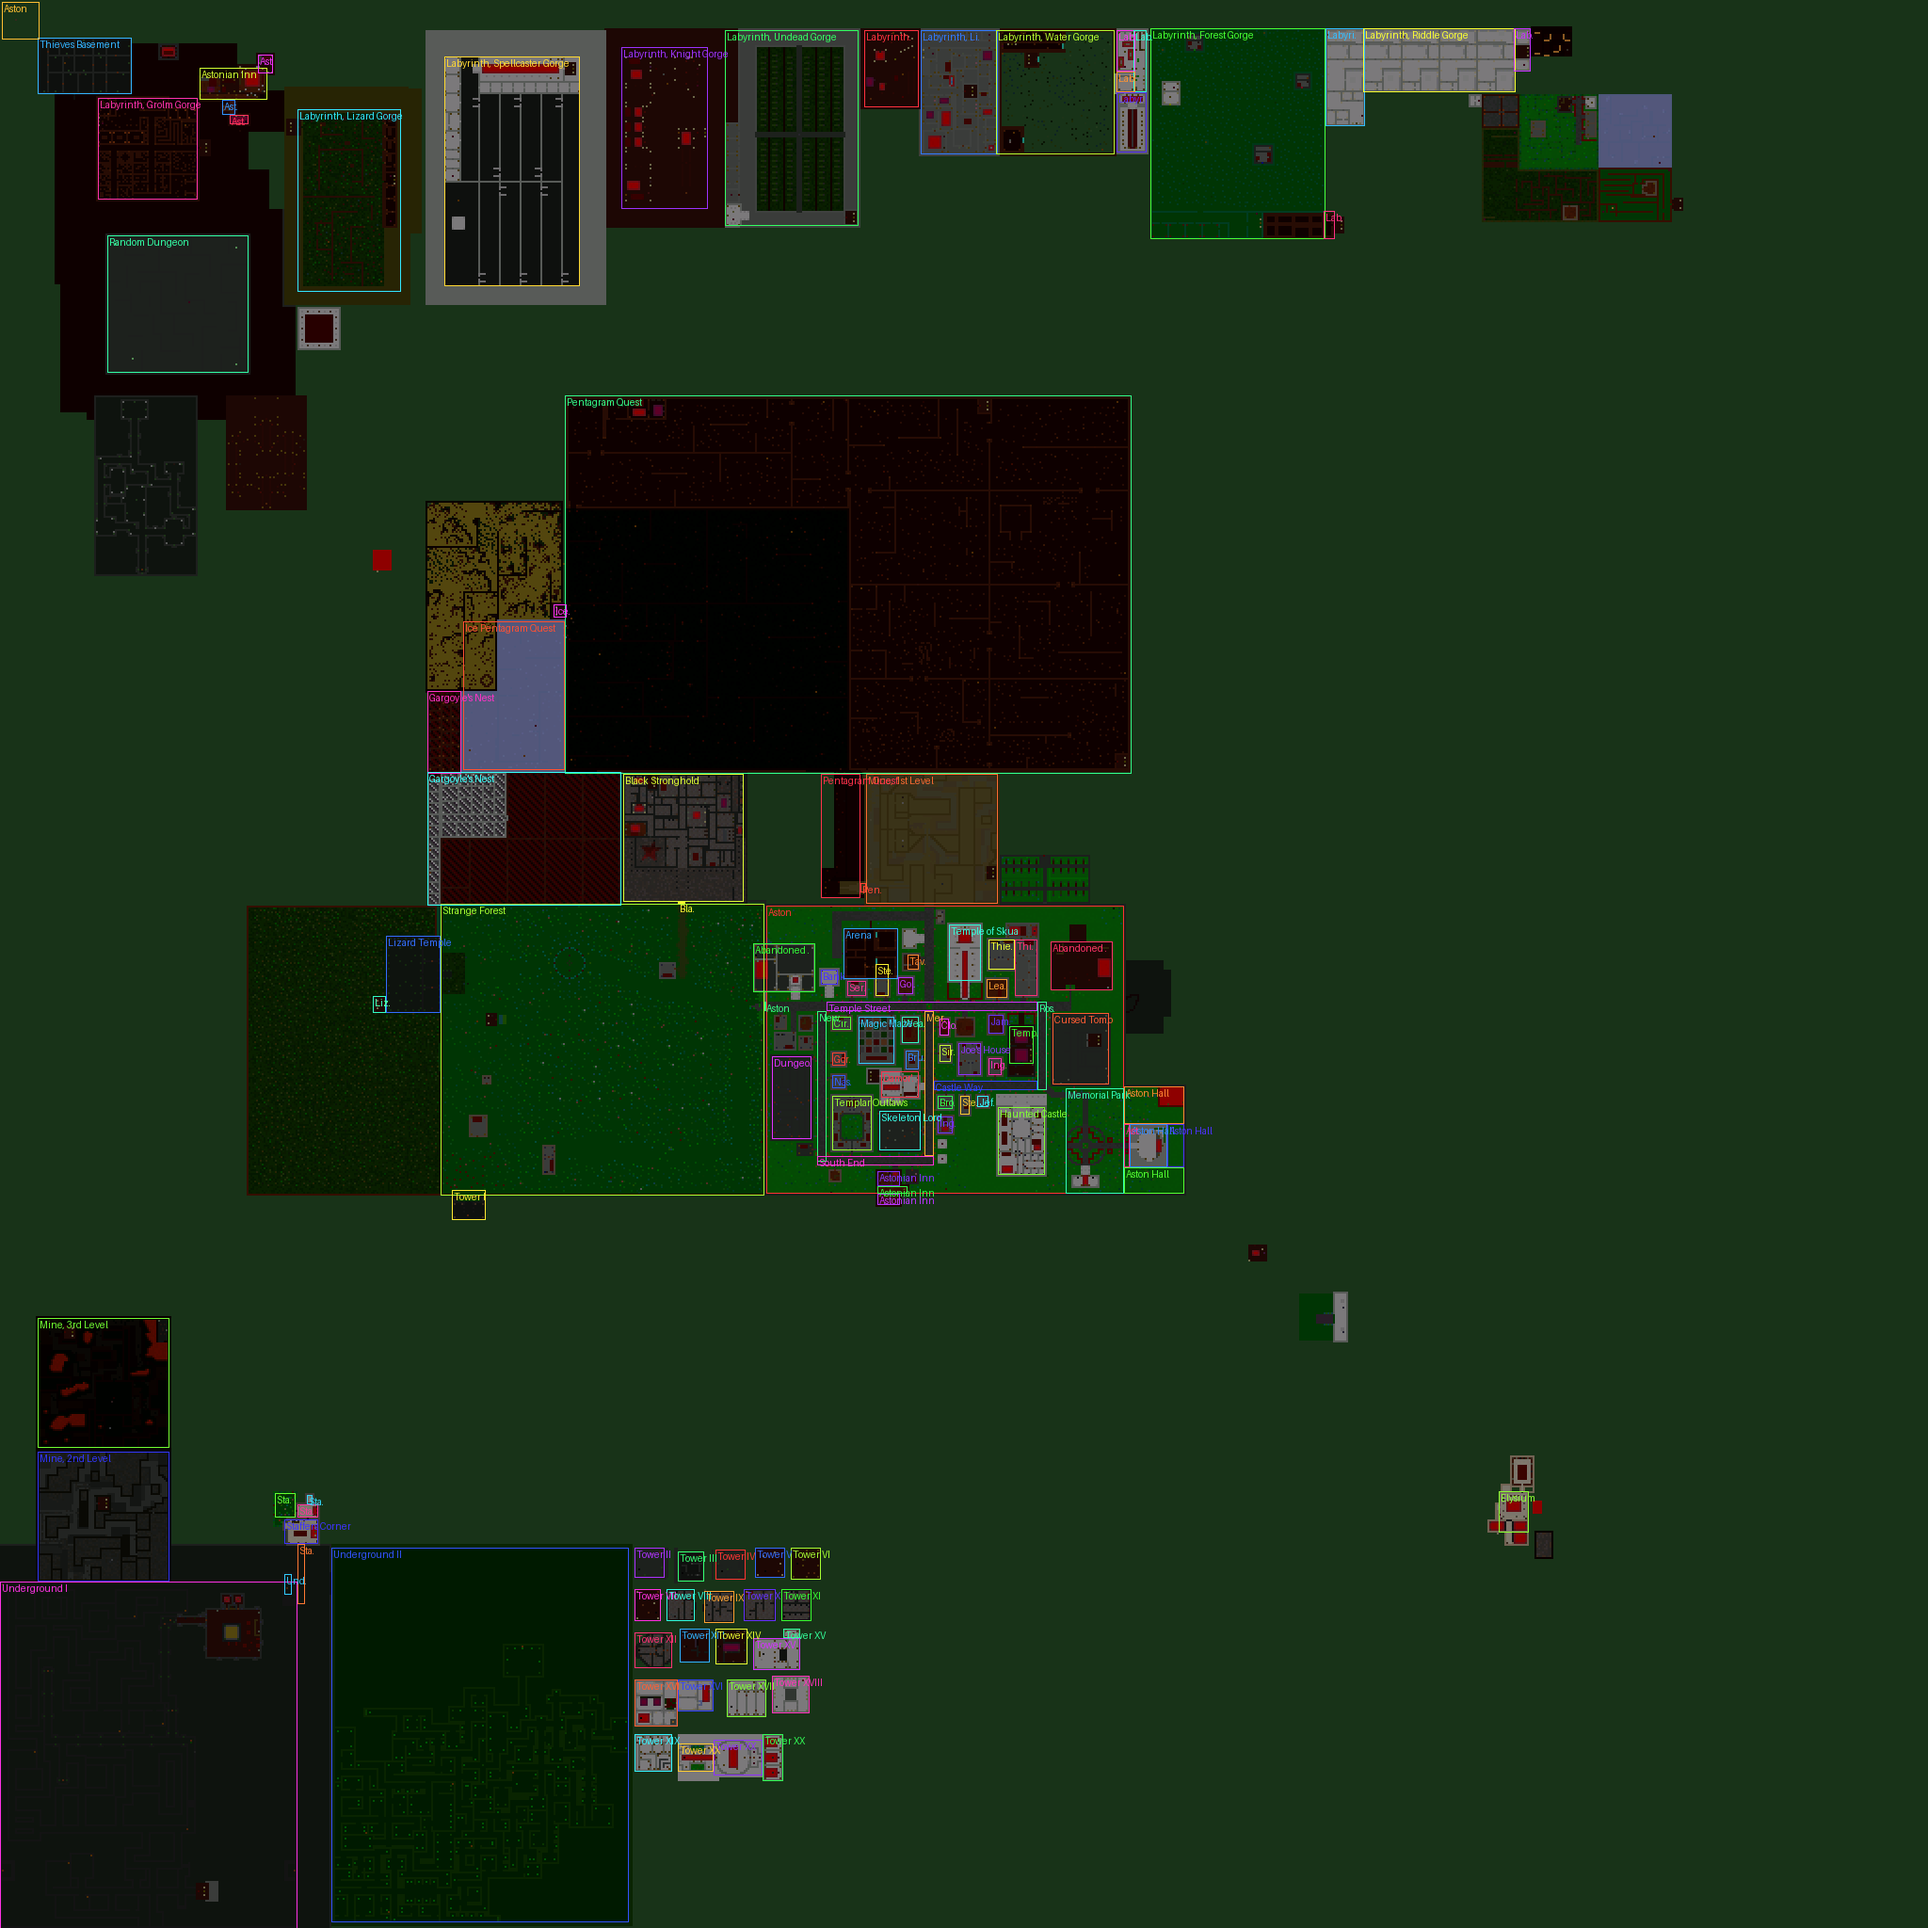
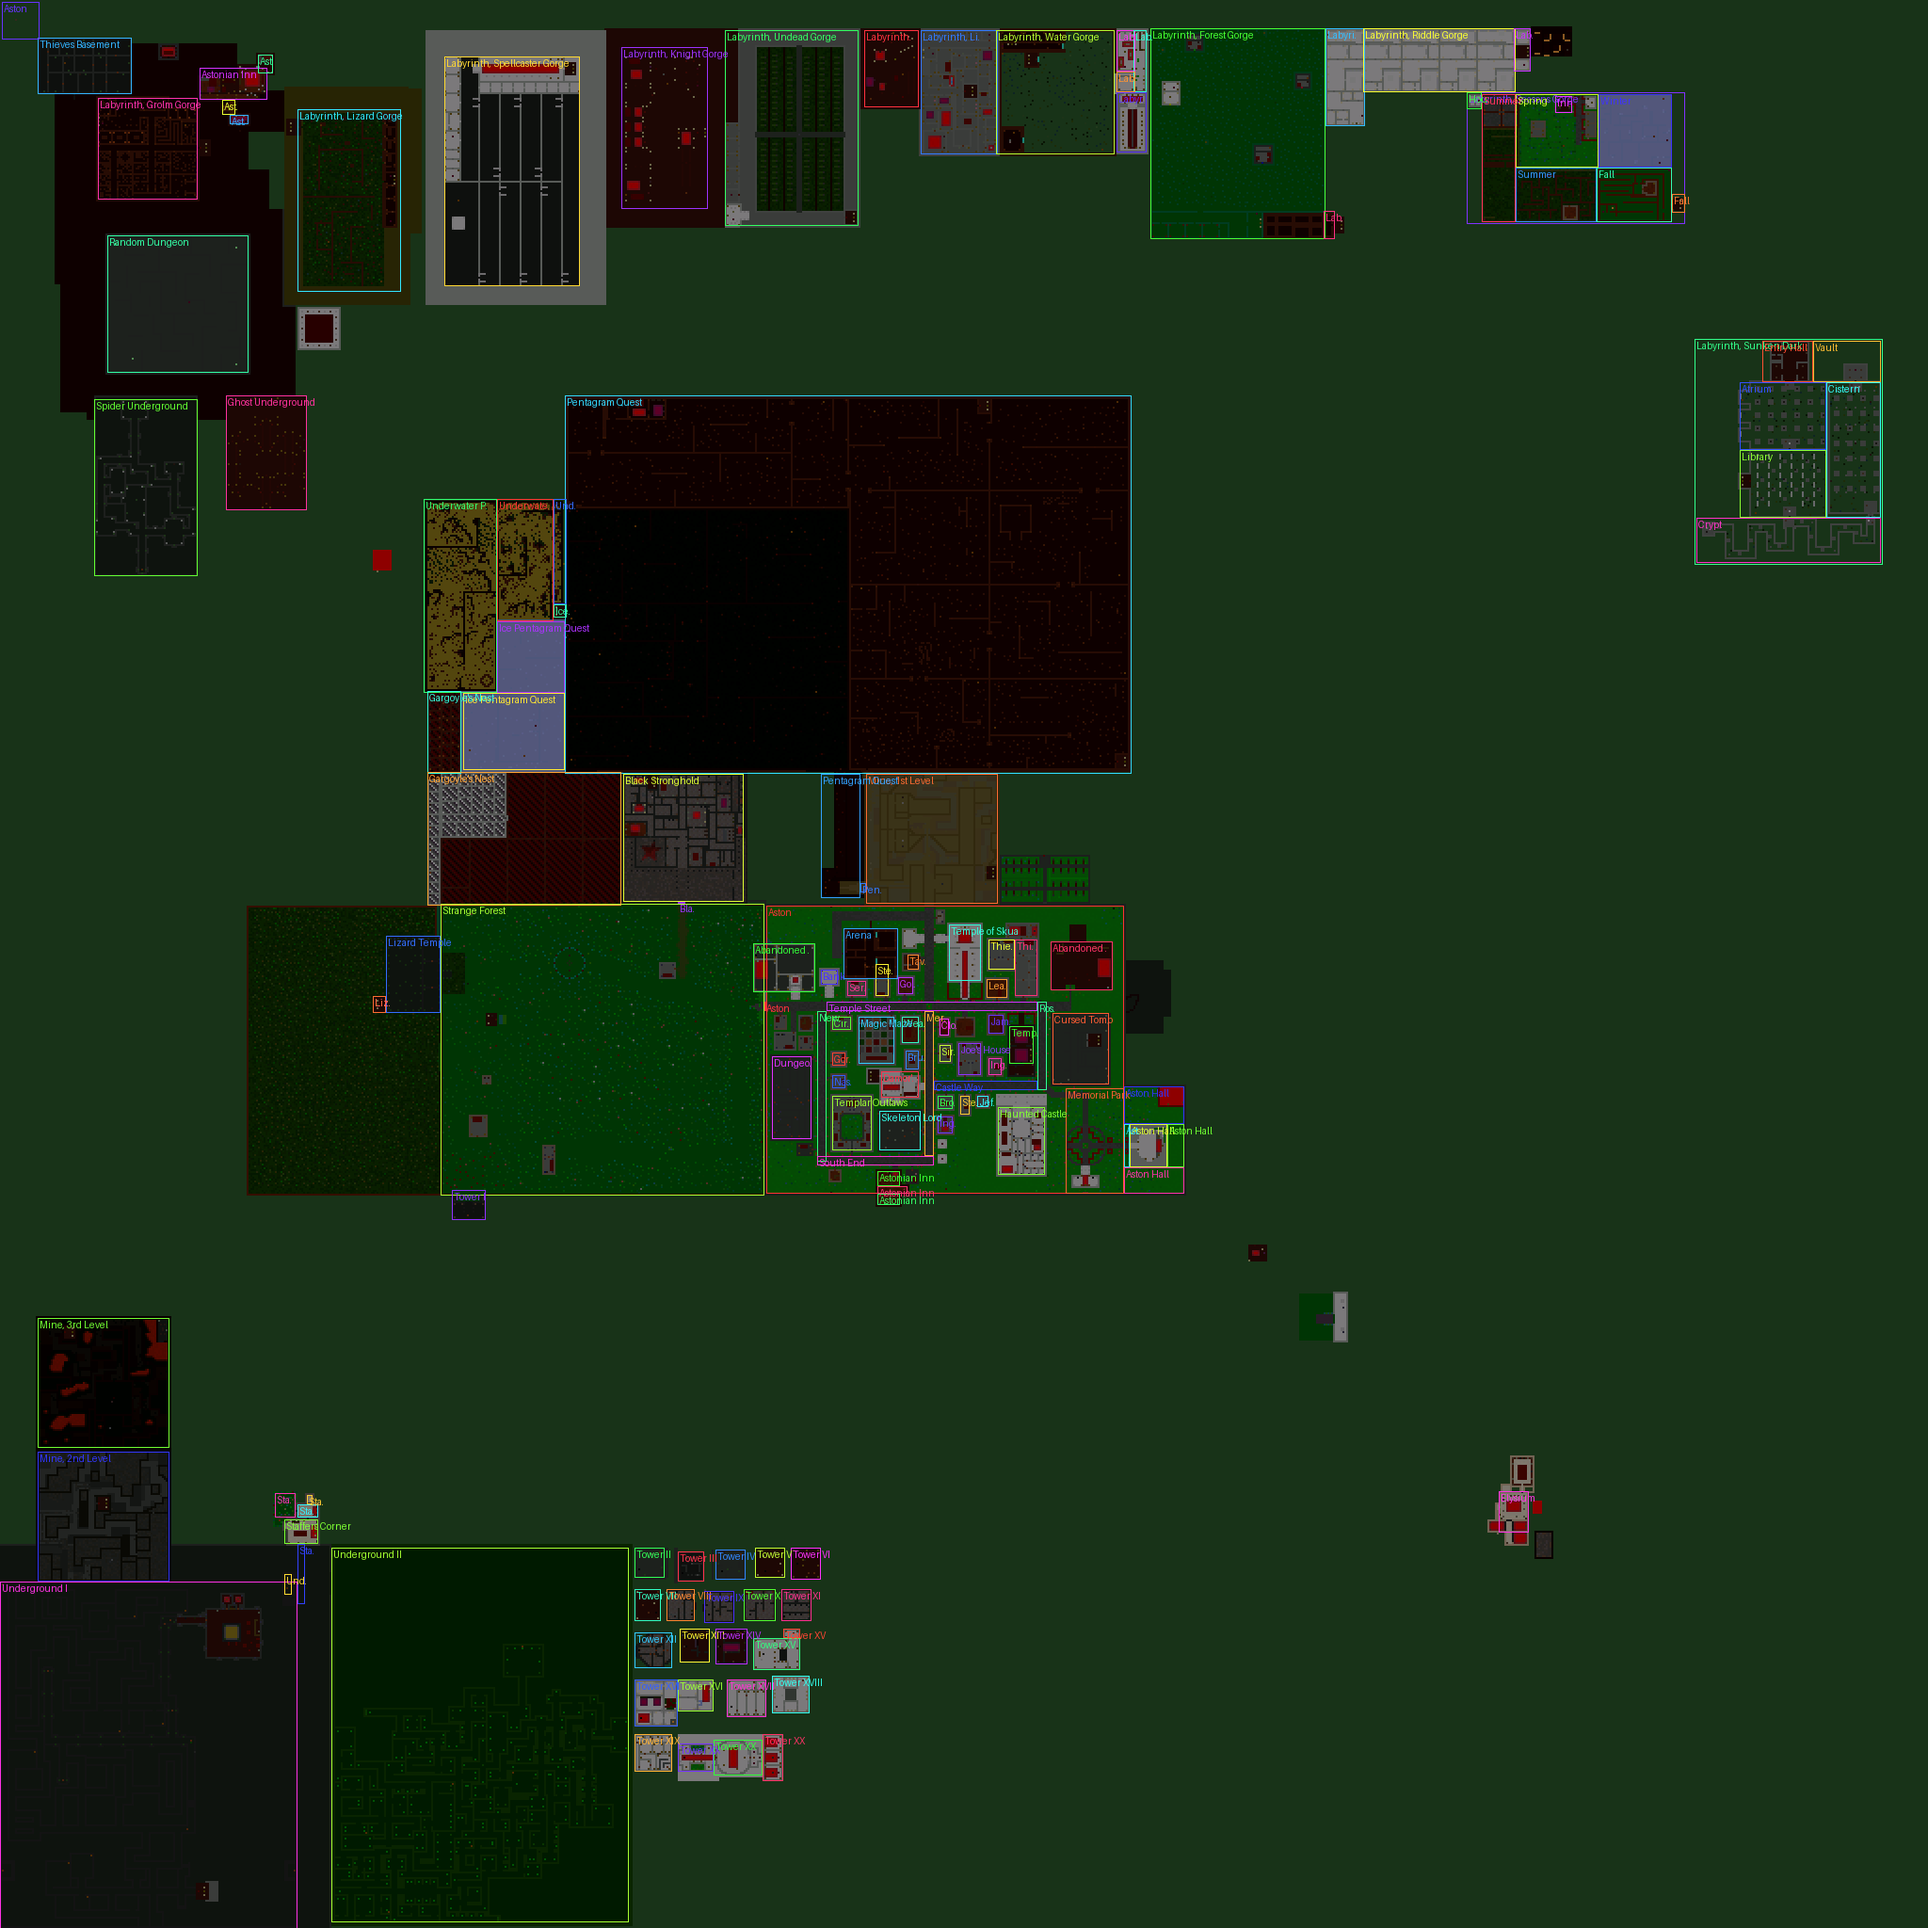
docs: world minimap and zone map redrawn (Lab 10/11 parts, undergrounds, pentagram quests)
Claude-Session: https://claude.ai/code/session_01MSjWpMgByR7PswdtguveBk

diff --git a/docs/world_zones.md b/docs/world_zones.md
@@ -74,60 +74,82 @@ Shown by `/who`, by NPCs when asked where you are, and in server logs. A spot in
 | 64 | Labyrinth, Riddle Gorge | 15,704 | 66,724 | "in the Labyrinth, Riddle Gorge" |
 | 65 | Labyrinth, Riddle Gorge | 15,724 | 48,804 | "in the Labyrinth, Riddle Gorge" |
 | 66 | Labyrinth, Riddle Gorge | 15,804 | 37,812 | "in the Labyrinth, Riddle Gorge" |
-| 67 | Pentagram Quest | 210,300 | 410,600 | "in the Pentagram Quest" |
-| 68 | Ice Pentagram Quest | 330,246 | 408,299 | "in the Ice Pentagram Quest" |
-| 69 | Underground II | 822,176 | 1020,333 | "in the Underground II" |
-| 70 | Elysium | 792,796 | 813,811 | "in the Elysium" |
-| 71 | Gargoyle's Nest | 367,227 | 410,244 | "in the Gargoyle's Nest" |
-| 72 | Gargoyle's Nest | 410,227 | 480,329 | "in the Gargoyle's Nest" |
-| 73 | Aston | 1,1 | 20,20 | "in Aston" |
-| 74 | Astonian Inn | 622,466 | 629,477 | "in the Astonian Inn" |
-| 75 | Astonian Inn | 630,466 | 633,481 | "in the Astonian Inn" |
-| 76 | Astonian Inn | 61,122 | 65,131 | "in the Astonian Inn" |
-| 77 | Astonian Inn | 53,118 | 60,124 | "in the Astonian Inn" |
-| 78 | Astonian Inn | 36,106 | 52,141 | "in the Astonian Inn" |
-| 79 | Astonian Inn | 29,137 | 38,144 | "in the Astonian Inn" |
-| 80 | Memorial Park | 578,566 | 633,596 | "in the Memorial Park" |
-| 81 | Staffers Corner | 820,158 | 851,161 | "in the Staffers Corner" |
-| 82 | Staffers Corner | 807,151 | 819,168 | "in the Staffers Corner" |
-| 83 | Staffers Corner | 793,146 | 805,156 | "in the Staffers Corner" |
-| 84 | Staffers Corner | 799,158 | 805,168 | "in the Staffers Corner" |
-| 85 | Staffers Corner | 794,163 | 798,165 | "in the Staffers Corner" |
-| 86 | Tower I | 632,240 | 647,257 | "in the Tower I" |
-| 87 | Tower II | 822,337 | 837,352 | "in the Tower II" |
-| 88 | Tower III | 824,360 | 839,373 | "in the Tower III" |
-| 89 | Tower IV | 823,380 | 838,395 | "in the Tower IV" |
-| 90 | Tower V | 822,401 | 837,416 | "in the Tower V" |
-| 91 | Tower VI | 822,420 | 838,435 | "in the Tower VI" |
-| 92 | Tower VII | 844,337 | 860,350 | "in the Tower VII" |
-| 93 | Tower VIII | 844,354 | 860,368 | "in the Tower VIII" |
-| 94 | Tower IX | 845,374 | 861,389 | "in the Tower IX" |
-| 95 | Tower X | 844,395 | 860,411 | "in the Tower X" |
-| 96 | Tower XI | 844,415 | 860,430 | "in the Tower XI" |
-| 97 | Tower XII | 867,337 | 885,356 | "in the Tower XII" |
-| 98 | Tower XIII | 865,361 | 882,376 | "in the Tower XIII" |
-| 99 | Tower XIV | 865,380 | 883,396 | "in the Tower XIV" |
-| 100 | Tower XV | 870,400 | 886,424 | "in the Tower XV" |
-| 101 | Tower XV | 865,416 | 869,424 | "in the Tower XV" |
-| 102 | Tower XVI | 892,337 | 916,359 | "in the Tower XVI" |
-| 103 | Tower XVI | 892,360 | 908,378 | "in the Tower XVI" |
-| 104 | Tower XVII | 892,386 | 911,406 | "in the Tower XVII" |
-| 105 | Tower XVIII | 890,410 | 909,429 | "in the Tower XVIII" |
-| 106 | Tower XIX | 921,337 | 940,356 | "in the Tower XIX" |
-| 107 | Tower XX | 926,360 | 940,378 | "in the Tower XX" |
-| 108 | Tower XX | 924,379 | 942,404 | "in the Tower XX" |
-| 109 | Tower XX | 921,405 | 945,415 | "in the Tower XX" |
-| 110 | Pentagram Quest | 411,436 | 476,456 | "in the Pentagram Quest" |
-| 111 | Aston Hall | 597,600 | 619,619 | "in Aston Hall" |
-| 112 | Lizard Temple Shrine | 529,198 | 537,204 | "in the Lizard Temple Shrine" |
-| 113 | Ice Pents Shrine | 321,294 | 327,300 | "in the Ice Pents Shrine" |
-| 114 | Lizard Temple Shrine | 529,198 | 537,204 | "in the Lizard Temple Shrine" |
-| 115 | Aston Hall | 577,597 | 596,628 | "in the Aston Hall" |
-| 116 | Aston Hall | 597,620 | 619,628 | "in the Aston Hall" |
-| 117 | Aston Hall | 620,597 | 633,628 | "in the Aston Hall" |
-| 118 | Aston Hall | 597,597 | 619,599 | "in the Aston Hall" |
-| 119 | Underground I | 836,151 | 846,154 | "in the Underground I" |
-| 120 | Black Stronghold | 479,360 | 479,363 | "in the Black Stronghold" |
-| 121 | Astonian Inn | 634,466 | 639,477 | "in the Astonian Inn" |
-| 122 | Aston | 532,406 | 536,406 | "in Aston" |
-| 123 | Pentagram Quest | 469,457 | 473,459 | "in the Pentagram Quest" |
+| 67 | Labyrinth, Sunken Dark | 180,900 | 299,999 | "in the Labyrinth, Sunken Dark" |
+| 68 | Entry Hall | 181,936 | 202,962 | "in the Entry Hall" |
+| 69 | Atrium | 203,924 | 238,969 | "in the Atrium" |
+| 70 | Library | 239,924 | 274,969 | "in the Library" |
+| 71 | Crypt | 275,901 | 298,998 | "in the Crypt" |
+| 72 | Cistern | 203,970 | 274,998 | "in the Cistern" |
+| 73 | Vault | 181,963 | 202,998 | "in the Vault" |
+| 74 | Labyrinth, Seasons Gorge | 49,779 | 118,894 | "in the Labyrinth, Seasons Gorge" |
+| 75 | Hourglass Chamber | 49,779 | 57,786 | "in the Hourglass Chamber" |
+| 76 | Summer | 50,787 | 117,804 | "in Summer" |
+| 77 | Summer | 89,805 | 117,847 | "in Summer" |
+| 78 | Spring | 50,805 | 88,848 | "in Spring" |
+| 79 | Inn | 51,826 | 59,834 | "in the Inn" |
+| 80 | Fall | 89,848 | 117,887 | "in Fall" |
+| 81 | Fall | 103,888 | 112,894 | "in Fall" |
+| 82 | Winter | 50,849 | 88,887 | "in Winter" |
+| 83 | Spider Underground | 212,50 | 305,104 | "in the Spider Underground" |
+| 84 | Ghost Underground | 210,120 | 270,162 | "in the Ghost Underground" |
+| 85 | Pentagram Quest | 210,300 | 410,600 | "in the Pentagram Quest" |
+| 86 | Ice Pentagram Quest | 368,246 | 408,299 | "in the Ice Pentagram Quest" |
+| 87 | Ice Pentagram Quest | 330,264 | 367,299 | "in the Ice Pentagram Quest" |
+| 88 | Underwater Pentagram Quest | 265,225 | 367,263 | "in the Underwater Pentagram Quest" |
+| 89 | Underwater Pentagram Quest | 265,264 | 329,293 | "in the Underwater Pentagram Quest" |
+| 90 | Underwater Pentagram Quest | 265,294 | 320,300 | "in the Underwater Pentagram Quest" |
+| 91 | Underground II | 822,176 | 1020,333 | "in the Underground II" |
+| 92 | Elysium | 792,796 | 813,811 | "in the Elysium" |
+| 93 | Gargoyle's Nest | 367,227 | 410,244 | "in the Gargoyle's Nest" |
+| 94 | Gargoyle's Nest | 410,227 | 480,329 | "in the Gargoyle's Nest" |
+| 95 | Aston | 1,1 | 20,20 | "in Aston" |
+| 96 | Astonian Inn | 622,466 | 629,477 | "in the Astonian Inn" |
+| 97 | Astonian Inn | 630,466 | 633,481 | "in the Astonian Inn" |
+| 98 | Astonian Inn | 61,122 | 65,131 | "in the Astonian Inn" |
+| 99 | Astonian Inn | 53,118 | 60,124 | "in the Astonian Inn" |
+| 100 | Astonian Inn | 36,106 | 52,141 | "in the Astonian Inn" |
+| 101 | Astonian Inn | 29,137 | 38,144 | "in the Astonian Inn" |
+| 102 | Memorial Park | 578,566 | 633,596 | "in the Memorial Park" |
+| 103 | Staffers Corner | 820,158 | 851,161 | "in the Staffers Corner" |
+| 104 | Staffers Corner | 807,151 | 819,168 | "in the Staffers Corner" |
+| 105 | Staffers Corner | 793,146 | 805,156 | "in the Staffers Corner" |
+| 106 | Staffers Corner | 799,158 | 805,168 | "in the Staffers Corner" |
+| 107 | Staffers Corner | 794,163 | 798,165 | "in the Staffers Corner" |
+| 108 | Tower I | 632,240 | 647,257 | "in the Tower I" |
+| 109 | Tower II | 822,337 | 837,352 | "in the Tower II" |
+| 110 | Tower III | 824,360 | 839,373 | "in the Tower III" |
+| 111 | Tower IV | 823,380 | 838,395 | "in the Tower IV" |
+| 112 | Tower V | 822,401 | 837,416 | "in the Tower V" |
+| 113 | Tower VI | 822,420 | 838,435 | "in the Tower VI" |
+| 114 | Tower VII | 844,337 | 860,350 | "in the Tower VII" |
+| 115 | Tower VIII | 844,354 | 860,368 | "in the Tower VIII" |
+| 116 | Tower IX | 845,374 | 861,389 | "in the Tower IX" |
+| 117 | Tower X | 844,395 | 860,411 | "in the Tower X" |
+| 118 | Tower XI | 844,415 | 860,430 | "in the Tower XI" |
+| 119 | Tower XII | 867,337 | 885,356 | "in the Tower XII" |
+| 120 | Tower XIII | 865,361 | 882,376 | "in the Tower XIII" |
+| 121 | Tower XIV | 865,380 | 883,396 | "in the Tower XIV" |
+| 122 | Tower XV | 870,400 | 886,424 | "in the Tower XV" |
+| 123 | Tower XV | 865,416 | 869,424 | "in the Tower XV" |
+| 124 | Tower XVI | 892,337 | 916,359 | "in the Tower XVI" |
+| 125 | Tower XVI | 892,360 | 908,378 | "in the Tower XVI" |
+| 126 | Tower XVII | 892,386 | 911,406 | "in the Tower XVII" |
+| 127 | Tower XVIII | 890,410 | 909,429 | "in the Tower XVIII" |
+| 128 | Tower XIX | 921,337 | 940,356 | "in the Tower XIX" |
+| 129 | Tower XX | 926,360 | 940,378 | "in the Tower XX" |
+| 130 | Tower XX | 924,379 | 942,404 | "in the Tower XX" |
+| 131 | Tower XX | 921,405 | 945,415 | "in the Tower XX" |
+| 132 | Pentagram Quest | 411,436 | 476,456 | "in the Pentagram Quest" |
+| 133 | Aston Hall | 597,600 | 619,619 | "in Aston Hall" |
+| 134 | Lizard Temple Shrine | 529,198 | 537,204 | "in the Lizard Temple Shrine" |
+| 135 | Ice Pents Shrine | 321,294 | 327,300 | "in the Ice Pents Shrine" |
+| 136 | Lizard Temple Shrine | 529,198 | 537,204 | "in the Lizard Temple Shrine" |
+| 137 | Aston Hall | 577,597 | 596,628 | "in the Aston Hall" |
+| 138 | Aston Hall | 597,620 | 619,628 | "in the Aston Hall" |
+| 139 | Aston Hall | 620,597 | 633,628 | "in the Aston Hall" |
+| 140 | Aston Hall | 597,597 | 619,599 | "in the Aston Hall" |
+| 141 | Underground I | 836,151 | 846,154 | "in the Underground I" |
+| 142 | Black Stronghold | 479,360 | 479,363 | "in the Black Stronghold" |
+| 143 | Astonian Inn | 634,466 | 639,477 | "in the Astonian Inn" |
+| 144 | Aston | 532,406 | 536,406 | "in Aston" |
+| 145 | Pentagram Quest | 469,457 | 473,459 | "in the Pentagram Quest" |
